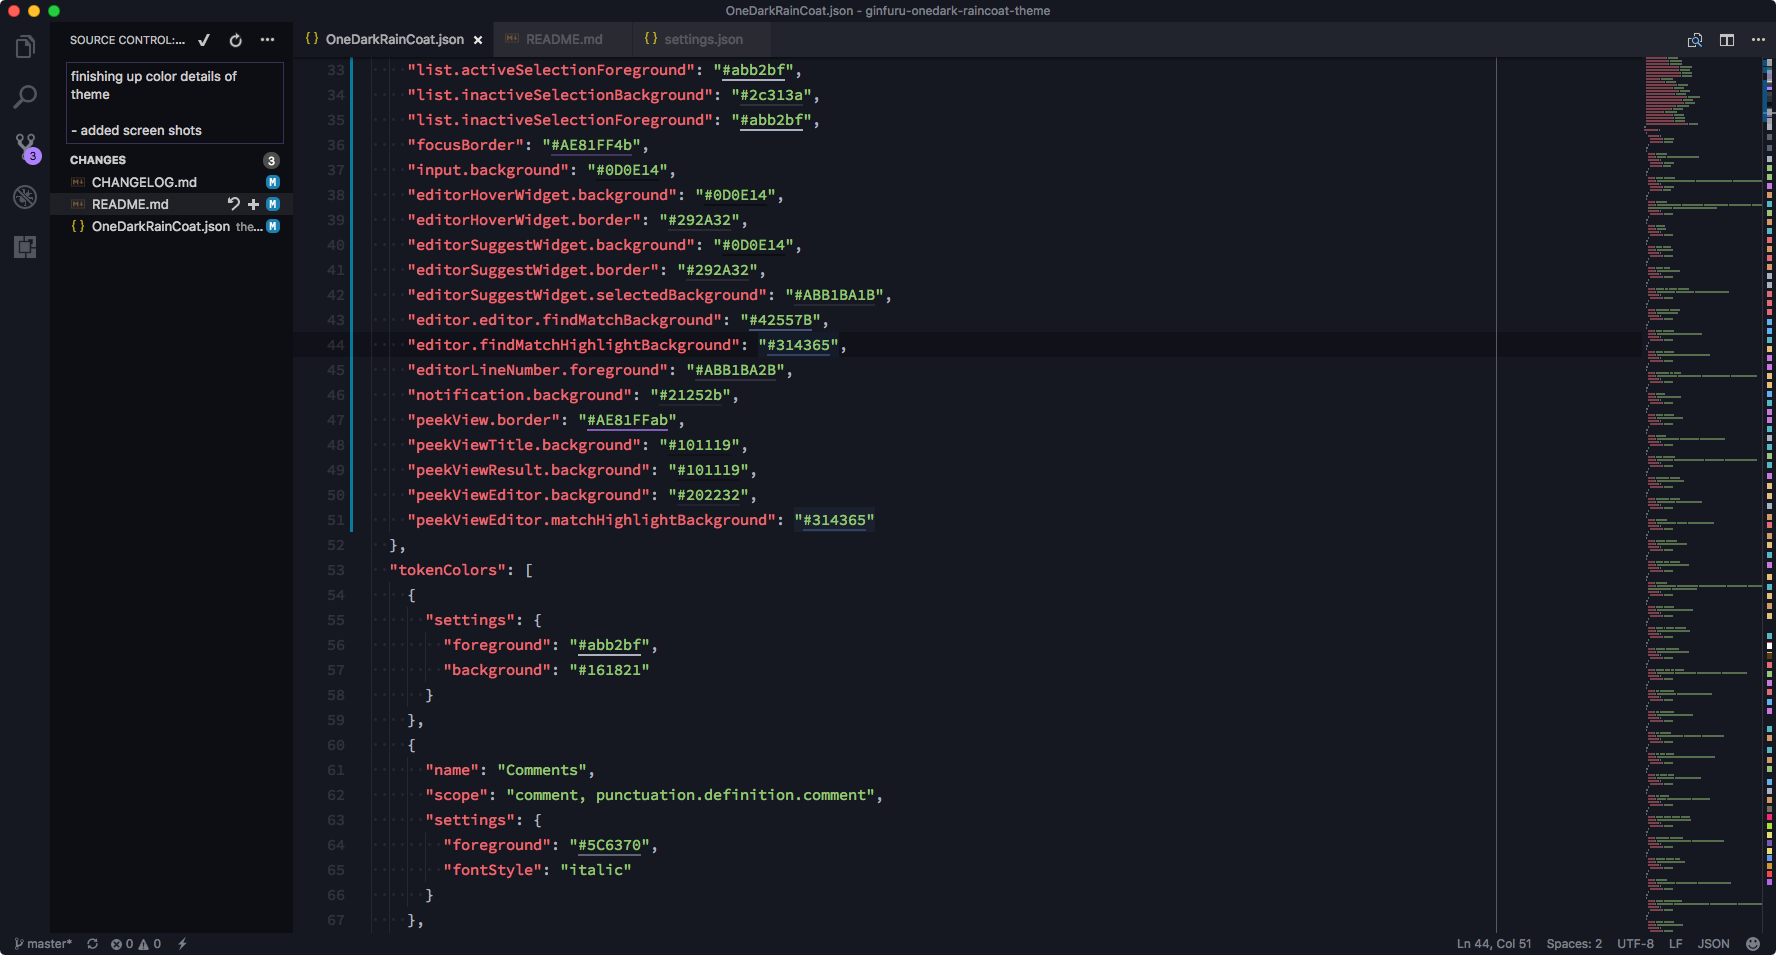
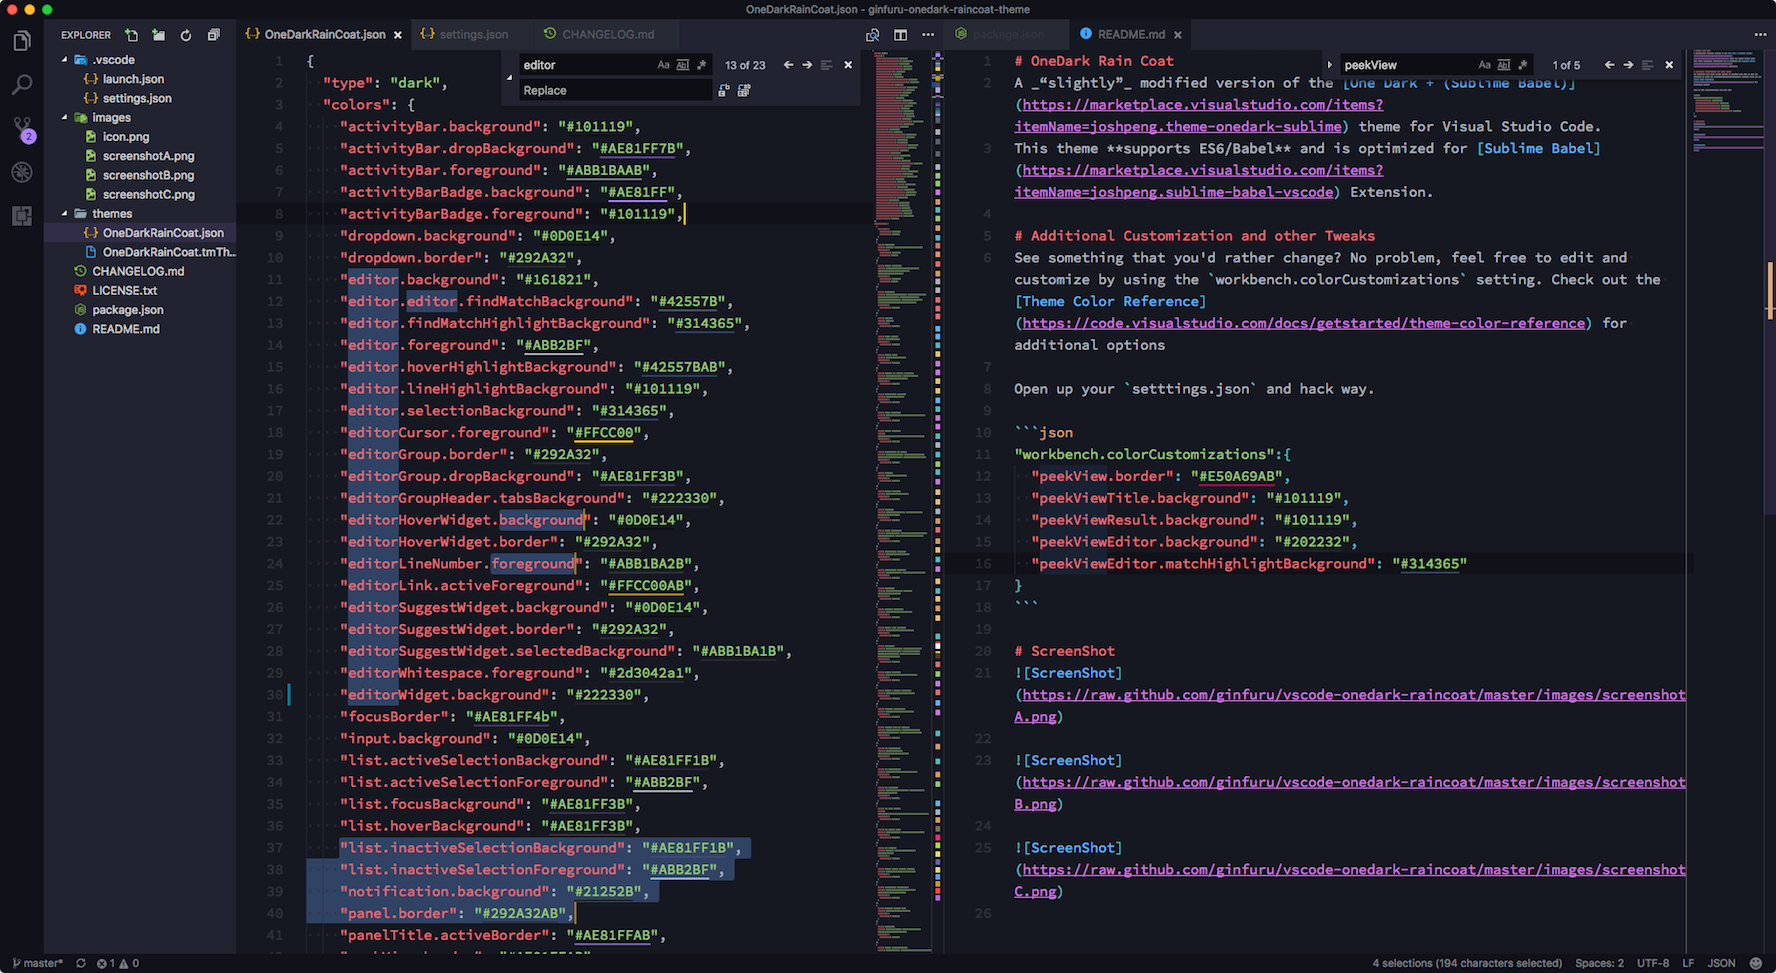
screenshot updates and fixed `editorWidget.background` color to match sidebar

Changed region(s): [[0.0, 0.0, 1.0, 1.0], [0.5574, 0.3948, 0.8361, 0.6073]]

diff --git a/README.md b/README.md
@@ -18,8 +18,10 @@ Open up your `setttings.json` and hack way.
 ```
 
 # ScreenShot
-![ScreenShot](https://raw.github.com/ginfuru/vscode-onedark-raincoat/master/images/screenshotA.png)
+![ScreenShot Workspace](https://raw.github.com/ginfuru/vscode-onedark-raincoat/master/images/screenshotA.png)
 
-![ScreenShot](https://raw.github.com/ginfuru/vscode-onedark-raincoat/master/images/screenshotB.png)
+![ScreenShot Peek View](https://raw.github.com/ginfuru/vscode-onedark-raincoat/master/images/screenshotB.png)
 
-![ScreenShot](https://raw.github.com/ginfuru/vscode-onedark-raincoat/master/images/screenshotC.png)
+![ScreenShot Peek and Command Prompt](https://raw.github.com/ginfuru/vscode-onedark-raincoat/master/images/screenshotC.png)
+
+![ScreenShot Intellisense](https://raw.github.com/ginfuru/vscode-onedark-raincoat/master/images/screenshotD.png)

diff --git a/CHANGELOG.md b/CHANGELOG.md
@@ -1,5 +1,8 @@
 # Change Log
-## 0.3.0 | 06-05-2017
+## 0.2.11 | 06-05-2017
+screenshot updates and fixed `editorWidget.background` color to match sidebar
+
+## 0.2.10 | 06-05-2017
 changed the sidebar, editorgroup header, inactive tabs background and foreground colors
 
 ## 0.2.9 | 06-04-2017
